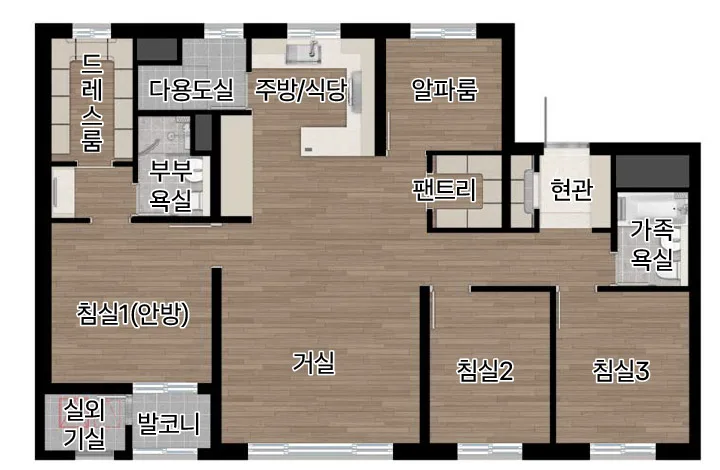
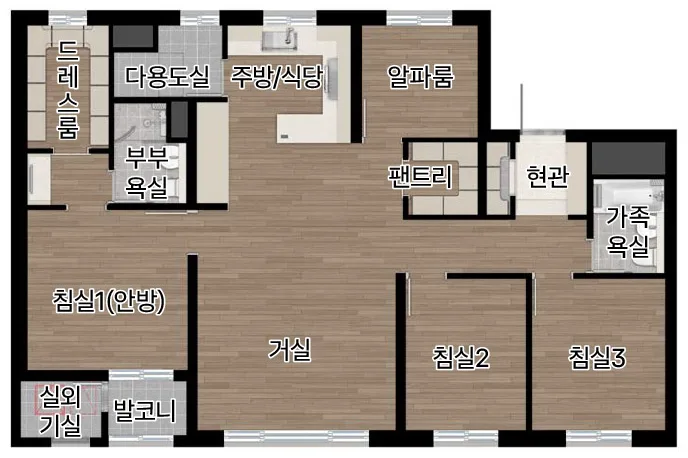
산곡: 공식 이미지 반영 (투시도, 배치도, 단지설계, 커뮤니티, 입지, 평면도 9종)
Claude-Session: https://claude.ai/code/session_01JMzkMCUVsCPJaAEC4DLA3y

diff --git a/sangok/public/index.html b/sangok/public/index.html
@@ -10,12 +10,13 @@
 <meta property="og:title" content="산곡역자이힐스테이트&하늘채 | 7호선 산곡역 앞 2,706세대">
 <meta property="og:description" content="GS건설·현대건설·코오롱글로벌 · 전용 50~84㎡ · 관심고객 등록 및 방문예약">
 <link rel="preload" href="assets/fonts/OJRSans-Variable-subset.woff2" as="font" type="font/woff2" crossorigin>
+<link rel="preload" as="image" href="assets/img/hero.webp" media="(min-width:768px)">
+<link rel="preload" as="image" href="assets/img/hero-m.webp" media="(max-width:767px)">
+<meta property="og:image" content="assets/img/hero.webp">
 <link rel="stylesheet" href="styles.css">
 <style>
 .pv-note{background:#F3F0E6;color:#5B4A1E;font:500 12.5px/1.5 "OJR Sans",system-ui,sans-serif;text-align:center;padding:6px max(16px,env(safe-area-inset-left,0px))}@media (min-width:1024px){.pv-note{position:fixed;left:0;right:0;bottom:0;z-index:50}}
 .hd__logo{letter-spacing:.08em}
-.ph{display:flex;align-items:center;justify-content:center;aspect-ratio:16/10;border:1px dashed var(--line);border-radius:var(--r);background:var(--soft);color:var(--muted);font-size:14px;text-align:center;padding:16px}
-.pgrid--ph .ph{aspect-ratio:4/3}
 </style>
 </head>
 <body>
@@ -39,7 +40,8 @@
   <!-- SECTION 01 · 메인 -->
   <section class="hero" id="hero" aria-labelledby="heroTitle">
     <picture class="hero__photo">
-      <img class="hero__img" src="assets/img/hero.svg" width="1600" height="900" alt="산곡역자이힐스테이트&amp;하늘채 투시도" fetchpriority="high" decoding="async">
+      <source media="(max-width:767px)" srcset="assets/img/hero-m.webp" width="620" height="618">
+      <img class="hero__img" src="assets/img/hero.webp" width="1100" height="618" alt="산곡역자이힐스테이트&amp;하늘채 투시도" fetchpriority="high" decoding="async">
     </picture>
     <div class="hero__in">
       <div class="hero__copy">
@@ -100,9 +102,9 @@
       <ul class="bnf" id="benefitCards">
         <li class="bnf__item bnf__item--key"><span class="bnf__k">부평 대단지</span><strong class="bnf__v">2,706세대</strong></li>
         <li class="bnf__item bnf__item--key"><span class="bnf__k">7호선 산곡역</span><strong class="bnf__v">5·6번 출구 앞</strong></li>
-        <li class="bnf__item"><span class="bnf__k">3사 컨소시엄</span><strong class="bnf__v">자이·힐스테이트·하늘채</strong><small>GS건설·현대건설·코오롱글로벌</small></li>
-        <li class="bnf__item"><span class="bnf__k">공원형 단지</span><strong class="bnf__v">지상 차 없는 단지</strong><small>중앙광장·산책로</small></li>
-        <li class="bnf__item"><span class="bnf__k">설계</span><strong class="bnf__v">남향 위주 배치</strong><small>일부 타입 4Bay·팬트리·드레스룸</small></li>
+        <li class="bnf__item"><span class="bnf__k">브랜드</span><strong class="bnf__v">3사 컨소시엄</strong><small>자이·힐스테이트·하늘채</small></li>
+        <li class="bnf__item"><span class="bnf__k">단지설계</span><strong class="bnf__v">공원형 단지</strong><small>지상 차 없는 단지·중앙광장</small></li>
+        <li class="bnf__item"><span class="bnf__k">설계</span><strong class="bnf__v">남향 위주</strong><small>일부 타입 4Bay·팬트리·드레스룸</small></li>
       </ul>
     </div>
   </section>
@@ -133,12 +135,25 @@
         <div class="site__text">
           <h3 class="sub__title">단지배치도</h3>
           <p>지상에 차가 다니지 않는 공원형 단지로, 산책로·휴게공간·놀이터·어린이집을 잇는 중앙광장이 조성됩니다.</p>
+          <p>GS건설 101~106·115~116동 · 현대건설 107~114동 · 코오롱글로벌 117~120동</p>
         </div>
-        <div class="ph">단지배치도 (공식 이미지 준비 중)</div>
+        <figure class="fig fig--site js-zoom" data-hires="assets/img/siteplan.webp"><img src="assets/img/siteplan-900.webp" srcset="assets/img/siteplan-900.webp 900w, assets/img/siteplan.webp 1100w" sizes="(max-width:1023px) 100vw, 760px" width="1100" height="937" alt="산곡역자이힐스테이트&amp;하늘채 단지배치도" loading="lazy" decoding="async"></figure>
+      </div>
+      <div class="comm">
+        <h3 class="sub__title">단지설계 <small>한 걸음 앞선 설계로 한 차원 높은 삶으로</small></h3>
+        <figure class="fig js-zoom" data-hires="assets/img/complex.webp"><img src="assets/img/complex.webp" width="1028" height="660" alt="단지 전경 CG" loading="lazy" decoding="async"></figure>
+        <ul class="comm__list">
+          <li><b>랜드마크 디자인</b>단지 규모에 걸맞은 차별화된 경관 계획 · 보행 친화적 가로경관 · 입체적 단지배치</li>
+          <li><b>테마 조경</b>산소리마당 · 물소리마당 · 커뮤니티마당 · 어린이놀이터 · 주민운동시설</li>
+        </ul>
       </div>
       <div class="comm">
         <h3 class="sub__title">커뮤니티</h3>
         <p class="sec__desc">취향이 모이고 즐거움이 이어지는 스페셜 커뮤니티</p>
+        <div class="comm__grid">
+          <figure class="fig js-zoom" data-hires="assets/img/comm-map.webp"><img src="assets/img/comm-map.webp" width="1100" height="900" alt="커뮤니티 시설 배치 이미지" loading="lazy" decoding="async"><figcaption>커뮤니티 배치 (크게 보기)</figcaption></figure>
+          <figure class="fig js-zoom" data-hires="assets/img/comm-photo.webp"><img src="assets/img/comm-photo.webp" width="1100" height="1760" alt="커뮤니티 시설 이미지컷" loading="lazy" decoding="async" style="aspect-ratio:1100/900;object-fit:cover;object-position:top"><figcaption>시설 이미지컷 (크게 보기)</figcaption></figure>
+        </div>
         <ul class="comm__list">
           <li><b>스포츠</b>피트니스 · G·X룸(그룹필라테스) · 골프연습장 · 스크린골프 · 사우나</li>
           <li><b>에듀</b>독서실(남/여) · 1인 독서실(남/여) · 작은도서관(교보문고) · 에듀홀</li>
@@ -154,6 +169,10 @@
       <div class="sec__head"><p class="sec__eyebrow">LOCATION</p>
       <h2 class="sec__title" id="locTitle">서울을 더 빠르게, 7호선 산곡역 바로 앞</h2>
       <p class="sec__desc">역세권에 안심 학세권, 생활 인프라까지 한걸음에 누리는 중심 입지입니다.</p></div>
+      <div class="comm__grid" style="margin-bottom:24px">
+        <figure class="fig js-zoom" data-hires="assets/img/loc-map.webp"><img src="assets/img/loc-map.webp" width="1100" height="960" alt="입지 지도와 7호선 역별 소요시간" loading="lazy" decoding="async"><figcaption>입지 지도 · 7호선 소요시간 (크게 보기)</figcaption></figure>
+        <figure class="fig js-zoom" data-hires="assets/img/loc-air.webp"><img src="assets/img/loc-air.webp" width="1100" height="700" alt="인천을 새롭게 대표할 브랜드 타운 항공 이미지" loading="lazy" decoding="async"><figcaption>총 2,706세대 브랜드 타운</figcaption></figure>
+      </div>
       <div class="loc" id="locBody">
         <div class="loc__grp">
           <h3>교통</h3>
@@ -193,11 +212,11 @@
           </table>
         </div>
         <h3 class="sub__title pgrid__title">타입별 평면도 <small>확장형</small></h3>
-        <div class="pgrid"><figure class="fig pfig js-zoom" data-hires="assets/img/plan84b.webp"><img src="assets/img/plan84b-t.webp" width="720" height="470" alt="84B 타입 평면도 (확장형)" loading="lazy" decoding="async"><figcaption><b>84B</b> 확장형 <span>크게 보기</span></figcaption></figure><div class="ph">다른 타입 평면도 준비 중</div></div>
+        <div class="pgrid"><figure class="fig pfig js-zoom" data-hires="assets/img/plan50a.webp"><img src="assets/img/plan50a-t.webp" alt="50A 타입 평면도 (확장형)" loading="lazy" decoding="async"><figcaption><b>50A</b> 확장형 <span>크게 보기</span></figcaption></figure><figure class="fig pfig js-zoom" data-hires="assets/img/plan50b.webp"><img src="assets/img/plan50b-t.webp" alt="50B 타입 평면도 (확장형)" loading="lazy" decoding="async"><figcaption><b>50B</b> 확장형 <span>크게 보기</span></figcaption></figure><figure class="fig pfig js-zoom" data-hires="assets/img/plan59a.webp"><img src="assets/img/plan59a-t.webp" alt="59A 타입 평면도 (확장형)" loading="lazy" decoding="async"><figcaption><b>59A</b> 확장형 <span>크게 보기</span></figcaption></figure><figure class="fig pfig js-zoom" data-hires="assets/img/plan59b.webp"><img src="assets/img/plan59b-t.webp" alt="59B 타입 평면도 (확장형)" loading="lazy" decoding="async"><figcaption><b>59B</b> 확장형 <span>크게 보기</span></figcaption></figure><figure class="fig pfig js-zoom" data-hires="assets/img/plan59c.webp"><img src="assets/img/plan59c-t.webp" alt="59C 타입 평면도 (확장형)" loading="lazy" decoding="async"><figcaption><b>59C</b> 확장형 <span>크게 보기</span></figcaption></figure><figure class="fig pfig js-zoom" data-hires="assets/img/plan75a.webp"><img src="assets/img/plan75a-t.webp" alt="75A 타입 평면도 (확장형)" loading="lazy" decoding="async"><figcaption><b>75A</b> 확장형 <span>크게 보기</span></figcaption></figure><figure class="fig pfig js-zoom" data-hires="assets/img/plan75b.webp"><img src="assets/img/plan75b-t.webp" alt="75B 타입 평면도 (확장형)" loading="lazy" decoding="async"><figcaption><b>75B</b> 확장형 <span>크게 보기</span></figcaption></figure><figure class="fig pfig js-zoom" data-hires="assets/img/plan84a.webp"><img src="assets/img/plan84a-t.webp" alt="84A 타입 평면도 (확장형)" loading="lazy" decoding="async"><figcaption><b>84A</b> 확장형 <span>크게 보기</span></figcaption></figure><figure class="fig pfig js-zoom" data-hires="assets/img/plan84b.webp"><img src="assets/img/plan84b-t.webp" alt="84B 타입 평면도 (확장형)" loading="lazy" decoding="async"><figcaption><b>84B</b> 확장형 <span>크게 보기</span></figcaption></figure></div>
         <div class="plan__opts"><b>계약고객 추가 무상제공품목 (Life-Up 특별혜택)</b><br>3구 인덕션(LG전자) · 천장형 시스템에어컨(LG전자, 1층 전체 / 2층 이상 거실+침실1) · 붙박이장(59㎡ 이상, 침실2 또는 침실3 중 1개소) · 현관 중문(3연동 자동중문) · 비데일체형 양변기(부부욕실 1개, 50㎡는 가족욕실 1개) · 식기세척기(LG전자)<br><small>※ 자세한 사항(제조사, 모델명, 공급 등)은 입주자모집공고를 참조하시고 견본주택에서 확인해 주시기 바랍니다.</small></div>
       </div>
 
-      <p class="note">※ 공급면적은 주거전용+주거공용 기준입니다. 일반분양 세대수는 특별공급과 일반공급을 합한 수입니다. 분양가는 입주자모집공고 기준 대략적인 가격대이며 동·층별로 다릅니다. 최종 면적과 금액은 입주자모집공고 및 계약서를 확인해 주시기 바랍니다.</p>
+      <p class="note">※ 평면도는 확장형 기준 참고 이미지이며, 크게 보기에서 기본형도 볼 수 있습니다. 공급면적은 주거전용+주거공용 기준입니다. 일반분양 세대수는 특별공급과 일반공급을 합한 수입니다. 분양가는 입주자모집공고 기준 대략적인 가격대이며 동·층별로 다릅니다. 최종 면적과 금액은 입주자모집공고 및 계약서를 확인해 주시기 바랍니다.</p>
     </div>
   </section>
 
